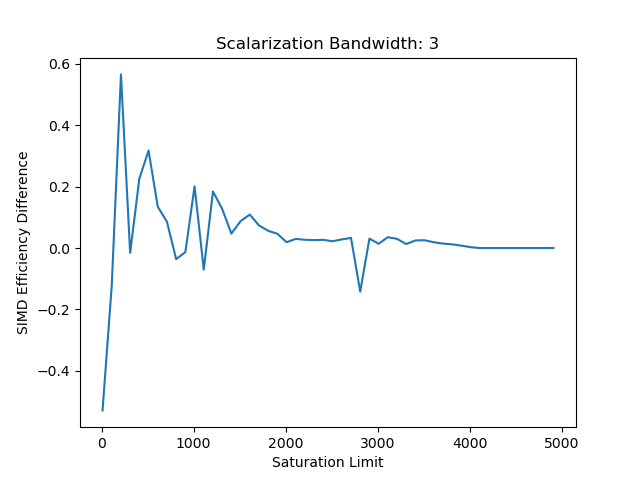
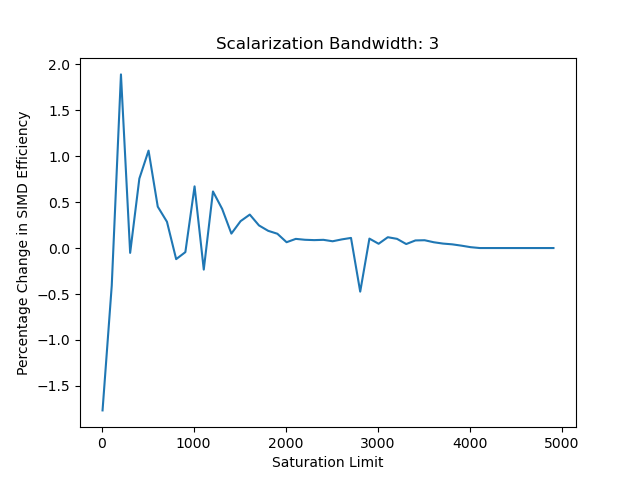
normalized simd plot

Changed region(s): [[0.0, 0.2188, 0.125, 0.8125], [0.0625, 0.125, 0.125, 0.1562]]

diff --git a/analysis/plot.py b/analysis/plot.py
@@ -43,7 +43,7 @@ if __name__ == "__main__":
 
         avg_rel_simd_efficiency = [expr[avg_rel_simd_efficiency_idx-1] for expr in data]
         avg_simd_efficiency = [expr[avg_simd_efficiency_idx-1] for expr in data]
-        avg_diff_simd_efficiency = [avg_simd_efficiency[i] - avg_rel_simd_efficiency[i] for i in range(len(avg_simd_efficiency))]
+        avg_pct_delta_simd_efficiency = [(avg_simd_efficiency[i] - avg_rel_simd_efficiency[i])*100/avg_rel_simd_efficiency[i] for i in range(len(avg_simd_efficiency))]
 
         avg_pct_non_split_div = [expr[avg_pct_non_split_div_idx-1] for expr in data]
         avg_max_ocp = [expr[avg_max_ocp_idx-1] for expr in data]
@@ -77,9 +77,9 @@ if __name__ == "__main__":
         plt.savefig(f'plots/avg_pct_cycles_saved_{num_scalar}.png')
         plt.close()
 
-        plt.plot(thetas, avg_diff_simd_efficiency)
+        plt.plot(thetas, avg_pct_delta_simd_efficiency)
         plt.xlabel("Saturation Limit")
-        plt.ylabel("SIMD Efficiency Difference")
+        plt.ylabel("Percentage Change in SIMD Efficiency")
         plt.title(f'Scalarization Bandwidth: {num_scalar}')
         plt.savefig(f'plots/avg_diff_simd_efficiency_{num_scalar}.png')
         plt.close()
